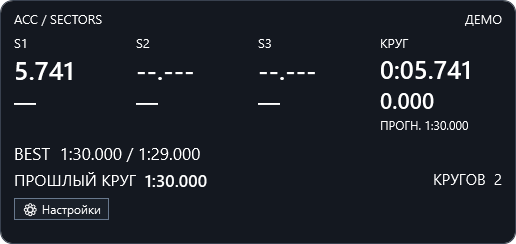
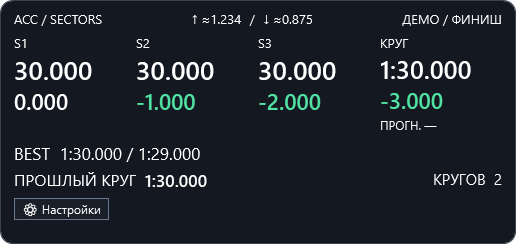
4

diff --git a/Broadcast.cs b/Broadcast.cs
@@ -3,6 +3,7 @@ using System.IO;
 using System.Net;
 using System.Net.Sockets;
 using System.Text;
+using System.Collections.Generic;
 
 namespace AccOverlay {
  // Minimal subscription to Kunos Broadcasting protocol v4. Never sends driving,
@@ -14,6 +15,9 @@ namespace AccOverlay {
   DateTime retryAt=DateTime.MinValue, lastUpdate=DateTime.MinValue;
   bool registered;
   int sessionKey=-1;
+  int connectionId;
+  readonly Dictionary<int,TrackCar> cars=new Dictionary<int,TrackCar>();
+  public int TrackMeters { get; private set; }
   public int Best { get; private set; }
   public string Status { get; private set; }
   public Broadcast(int port,string password) { this.port=port; this.password=password ?? ""; Status="Ожидание ACC"; }
@@ -41,9 +45,21 @@ namespace AccOverlay {
    using(BinaryReader reader=new BinaryReader(new MemoryStream(packet))) {
     byte type=reader.ReadByte();
     if(type==1) {
-     reader.ReadInt32(); registered=reader.ReadByte()!=0; reader.ReadByte(); ReadString(reader);
+     connectionId=reader.ReadInt32(); registered=reader.ReadByte()!=0; reader.ReadByte(); ReadString(reader);
+     cars.Clear(); TrackMeters=0;
+     if(registered && socket!=null) { Request(10); Request(11); }
      Status=registered?"Подключено к ACC":"ACC отклонила подключение"; lastUpdate=DateTime.UtcNow; return;
     }
+    if(type==3) {
+     int id=reader.ReadUInt16(); reader.ReadUInt16(); reader.ReadByte(); reader.ReadByte();
+     reader.ReadSingle(); reader.ReadSingle(); reader.ReadSingle();
+     int location=reader.ReadByte(); reader.ReadUInt16(); reader.ReadUInt16(); reader.ReadUInt16(); reader.ReadUInt16();
+     float spline=reader.ReadSingle(); reader.ReadUInt16(); reader.ReadInt32();
+     int best=ReadLapTime(reader), last=ReadLapTime(reader); ReadLapTime(reader);
+     if(!float.IsNaN(spline) && !float.IsInfinity(spline) && spline>=0 && spline<=1) cars[id]=new TrackCar { Id=id, Location=location, Spline=spline, LapTime=last>0?last:best, Updated=DateTime.UtcNow };
+     return;
+    }
+    if(type==5) { reader.ReadInt32(); ReadString(reader); reader.ReadInt32(); int metres=reader.ReadInt32(); TrackMeters=metres>0?metres:0; return; }
     if(type!=2) return;
     int eventIndex=reader.ReadUInt16(), sessionIndex=reader.ReadUInt16();
     int key=(eventIndex<<16)|sessionIndex;
@@ -56,12 +72,43 @@ namespace AccOverlay {
     bool invalid=reader.ReadByte()!=0, valid=reader.ReadByte()!=0;
     reader.ReadByte(); reader.ReadByte();
     if(replay) return;
-    if(key!=sessionKey) { Best=0; sessionKey=key; }
+    if(key!=sessionKey) { Best=0; if(sessionKey!=-1) cars.Clear(); sessionKey=key; }
     if(time>0 && time<int.MaxValue && valid && !invalid) Best=time;
     registered=true; lastUpdate=DateTime.UtcNow; Status="Подключено к ACC";
    }
   }
+  static int ReadLapTime(BinaryReader reader) {
+   int time=reader.ReadInt32(); reader.ReadUInt16(); reader.ReadUInt16();
+   int splits=reader.ReadByte(); for(int i=0;i<splits;i++) reader.ReadInt32();
+   for(int i=0;i<4;i++) reader.ReadByte();
+   return time>0 && time<int.MaxValue?time:0;
+  }
+  void Request(byte type) {
+   using(MemoryStream stream=new MemoryStream()) using(BinaryWriter writer=new BinaryWriter(stream)) { writer.Write(type); writer.Write(connectionId); byte[] data=stream.ToArray(); socket.Send(data,data.Length); }
+  }
+  public TrafficPair GetTraffic(int playerCarId,int referenceLap) {
+   TrafficPair pair=new TrafficPair(); TrackCar player;
+   if(!Fresh || !cars.TryGetValue(playerCarId,out player) || player.Location!=1 || (DateTime.UtcNow-player.Updated).TotalSeconds>2) return pair;
+   double front=double.MaxValue, rear=double.MaxValue;
+   foreach(TrackCar car in cars.Values) {
+    if(car.Id==playerCarId || car.Location!=1 || (DateTime.UtcNow-car.Updated).TotalSeconds>2) continue;
+    // Shortest signed arc on the track, independent of race rank/lap count.
+    double distance=(car.Spline-player.Spline+1.5)%1.0-0.5;
+    if(distance>=0 && distance<front) { front=distance; pair.AheadId=car.Id; }
+    else if(distance<0 && -distance<rear) { rear=-distance; pair.BehindId=car.Id; }
+   }
+   int lap=referenceLap>0 && referenceLap<int.MaxValue?referenceLap:player.LapTime;
+   if(pair.AheadId.HasValue) { if(lap>0) pair.AheadSeconds=front*lap/1000.0; if(TrackMeters>0) pair.AheadMeters=front*TrackMeters; }
+   if(pair.BehindId.HasValue) { if(lap>0) pair.BehindSeconds=rear*lap/1000.0; if(TrackMeters>0) pair.BehindMeters=rear*TrackMeters; }
+   return pair;
+  }
   public bool Fresh { get { return registered && (DateTime.UtcNow-lastUpdate).TotalSeconds<10; } }
   public void Dispose() { if(socket!=null) { try { if(registered) socket.Send(new byte[]{9},1); } catch(SocketException) {} socket.Close(); socket=null; } }
+ }
+ sealed class TrackCar { public int Id,Location,LapTime; public float Spline; public DateTime Updated; }
+ public sealed class TrafficPair {
+  public int? AheadId,BehindId;
+  public double? AheadSeconds,BehindSeconds,AheadMeters,BehindMeters;
+  public static string Format(double? seconds,double? metres) { return seconds.HasValue?"≈"+seconds.Value.ToString("0.000",System.Globalization.CultureInfo.InvariantCulture):(metres.HasValue?metres.Value.ToString("0",System.Globalization.CultureInfo.InvariantCulture)+" м":"—"); }
  }
 }

diff --git a/Telemetry.cs b/Telemetry.cs
@@ -10,6 +10,8 @@ namespace AccOverlay {
   public int Packet, Status, Session, Laps, Current, Last, Best, Sector, Split;
   public float Remaining, Position;
   public int SessionIndex;
+  public int GapAhead, GapBehind;
+  public int PlayerCarId;
   public bool Valid=true;
  }
  public sealed class Reader : IDisposable {
@@ -22,10 +24,10 @@ namespace AccOverlay {
    if(view==IntPtr.Zero) {
     handle=OpenFileMapping(4,false,"Local\\acpmf_graphics");
     if(handle==IntPtr.Zero) return null;
-    view=MapViewOfFile(handle,4,0,0,new UIntPtr(1412));
+    view=MapViewOfFile(handle,4,0,0,new UIntPtr(1588));
     if(view==IntPtr.Zero) { Dispose(); return null; }
    }
-   byte[] b=new byte[1412];
+   byte[] b=new byte[1588];
    for(int retry=0;retry<3;retry++) {
     int packet=Marshal.ReadInt32(view);
     Marshal.Copy(view,b,0,b.Length);
@@ -38,7 +40,7 @@ namespace AccOverlay {
    if(b==null || b.Length<1412) throw new ArgumentException("Incomplete ACC graphics page");
    int best=BitConverter.ToInt32(b,148);
    if(best<=0 || best==int.MaxValue) best=ParseTime(Encoding.Unicode.GetString(b,72,30).TrimEnd('\0'));
-   return new Frame { Packet=BitConverter.ToInt32(b,0),Status=BitConverter.ToInt32(b,4),Session=BitConverter.ToInt32(b,8),Laps=BitConverter.ToInt32(b,132),Current=BitConverter.ToInt32(b,140),Last=BitConverter.ToInt32(b,144),Best=best,Remaining=BitConverter.ToSingle(b,152),Sector=BitConverter.ToInt32(b,164),Split=BitConverter.ToInt32(b,168),Position=BitConverter.ToSingle(b,248),SessionIndex=BitConverter.ToInt32(b,1320),Valid=BitConverter.ToInt32(b,1408)!=0 };
+   return new Frame { Packet=BitConverter.ToInt32(b,0),Status=BitConverter.ToInt32(b,4),Session=BitConverter.ToInt32(b,8),Laps=BitConverter.ToInt32(b,132),Current=BitConverter.ToInt32(b,140),Last=BitConverter.ToInt32(b,144),Best=best,Remaining=BitConverter.ToSingle(b,152),Sector=BitConverter.ToInt32(b,164),Split=BitConverter.ToInt32(b,168),Position=BitConverter.ToSingle(b,248),SessionIndex=BitConverter.ToInt32(b,1320),Valid=BitConverter.ToInt32(b,1408)!=0,PlayerCarId=BitConverter.ToInt32(b,1216),GapAhead=b.Length>=1588?BitConverter.ToInt32(b,1580):0,GapBehind=b.Length>=1588?BitConverter.ToInt32(b,1584):0 };
   }
   public static int ParseTime(string text) {
    TimeSpan value;
@@ -228,6 +230,7 @@ namespace AccOverlay {
   }
   public static string Time(int ms) { return ms<=0?"--:--.---":string.Format("{0}:{1:00}.{2:000}",ms/60000,(ms/1000)%60,ms%1000); }
   public static string Delta(int? ms) { return ms.HasValue?string.Format(System.Globalization.CultureInfo.InvariantCulture,"{0:+0.000;-0.000;0.000}",ms.Value/1000.0):"—"; }
+  public static string Gap(int ms) { if(ms==0 || ms==-1 || ms==int.MaxValue || ms==int.MinValue) return "—"; int magnitude=Math.Abs(ms); return magnitude>=60000?Time(magnitude):(magnitude/1000.0).ToString("0.000",CultureInfo.InvariantCulture); }
  }
  public sealed class Display {
   public int[] Sectors=new int[3];

diff --git a/README.md b/README.md
@@ -29,6 +29,7 @@ Standings — зачёт сессии: в квалификации он опре
 
 ## Показатели
 
+- В верхней строке между названием и статусом: слева `↑ ≈1.234` — ближайшая машина впереди **на трассе**, справа `↓ ≈0.875` — ближайшая сзади. Соседи определяются по положению вдоль круга, независимо от позиции в зачёте и количества пройденных кругов; круговые учитываются, пит-лейн исключён. Используется кратчайшее направление по трассе, включая переход через старт/финиш. Временной отрыв оценивается из доли круга и времени круга игрока, поэтому отмечен «≈»; это не официальный гоночный интервал. Пока времени круга нет, при доступной длине трассы показываются метры. Требуется подключение ACC Broadcasting и свежие координаты машин; при их отсутствии — прочерк. Поля gapAhead/gapBehind для этого индикатора не используются.
 - S1–S3: активный сектор считает время вживую, с тремя знаками после точки. Завершённые сектора фиксируются. Каждый сектор имеет отдельную длительность: S2 = второй накопленный сплит минус S1; S3 = время круга минус S1 и S2. Под сектором крупным шрифтом — разница с тем же сектором предыдущего круга. После финиша она остаётся на 5 секунд вместе с временами секторов, затем очищается. На новом круге сравнения появляются только по мере завершения его секторов. Зелёный — быстрее, красный — медленнее, белый — разница в пределах ±0,020 с. Прочерк означает, что сравнение ещё неизвестно. Основные времена и подписи белые; фон по умолчанию на 70% прозрачный.
 - КРУГ: текущий секундомер круга. После финиша на 5 секунд фиксируются полный круг, три сектора и разница с предыдущим кругом. Следующий круг уже записывается в фоне. Через 5 секунд появляются его актуальные значения: например, S1 = 5.100, а не искусственный старт с нуля после задержки. Будущие сектора остаются прочерками.
 - BEST: «мой лучший / лучший всех участников текущей сессии». Личный лучший берётся из ACC; пустое значение пакета не стирает результат. Если ACC его ещё не опубликовал, оверлей использует полный действительный круг, записанный с начала. BEST* — лучший замеченный завершённый круг, когда действительный результат ещё неизвестен; он может быть недействительным. Общий лучший берётся только из ACC Broadcasting, без подмены личным результатом. Прочерк справа означает отсутствие действительного результата или подключения; причина видна при наведении.
